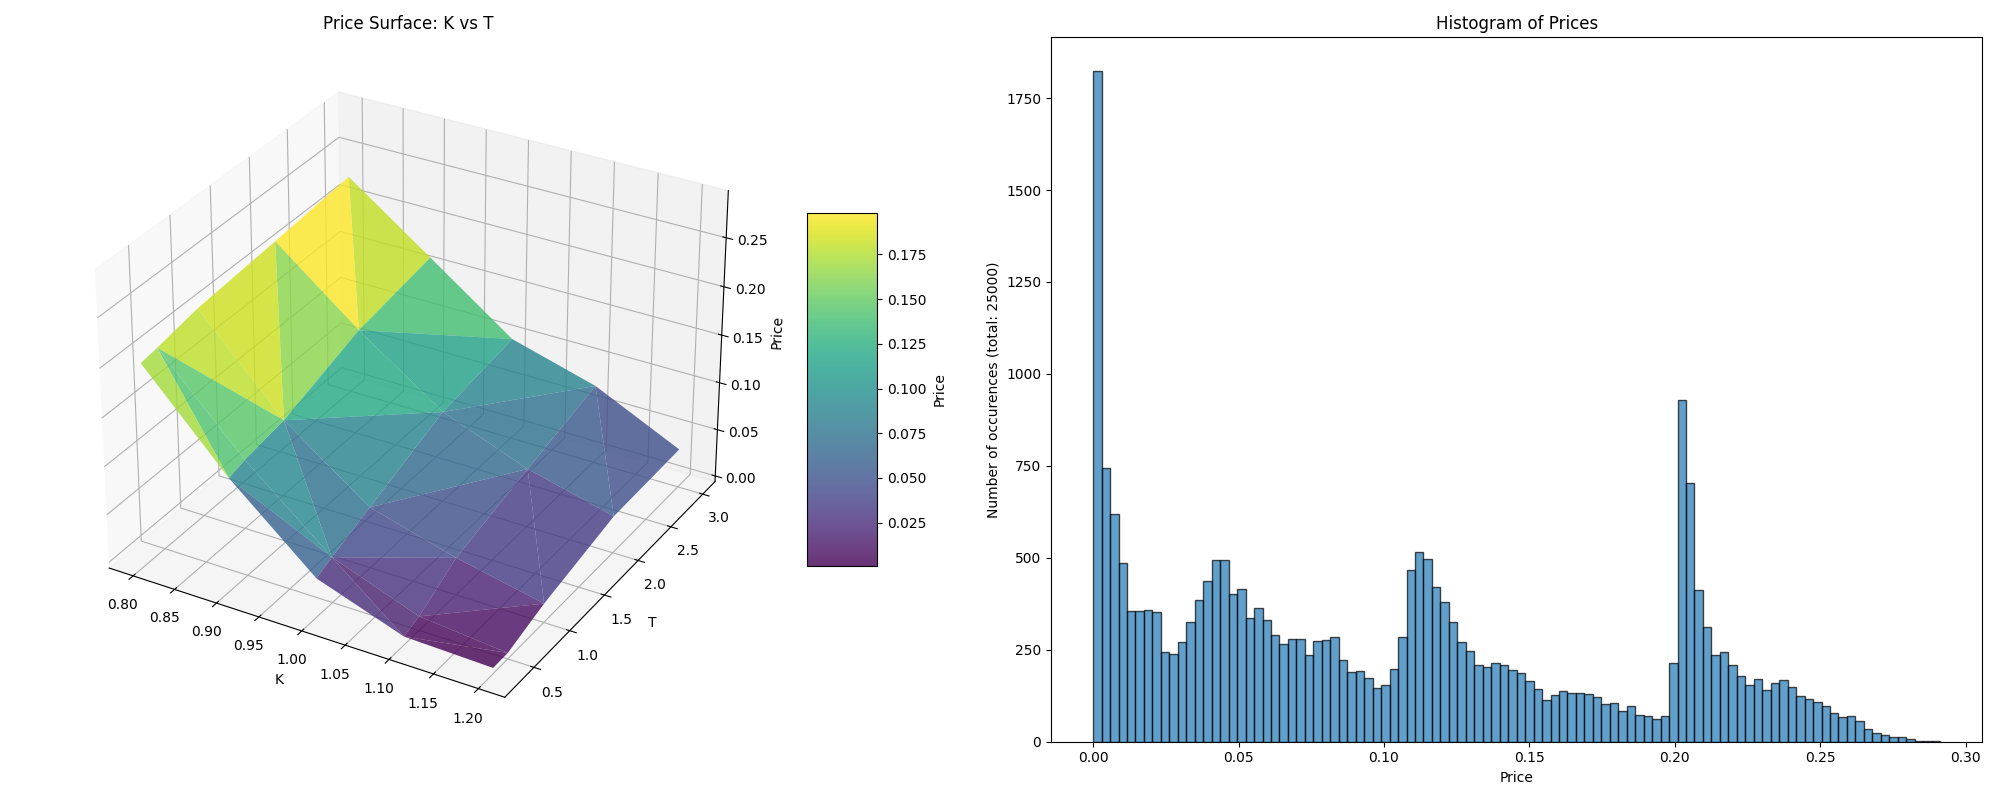
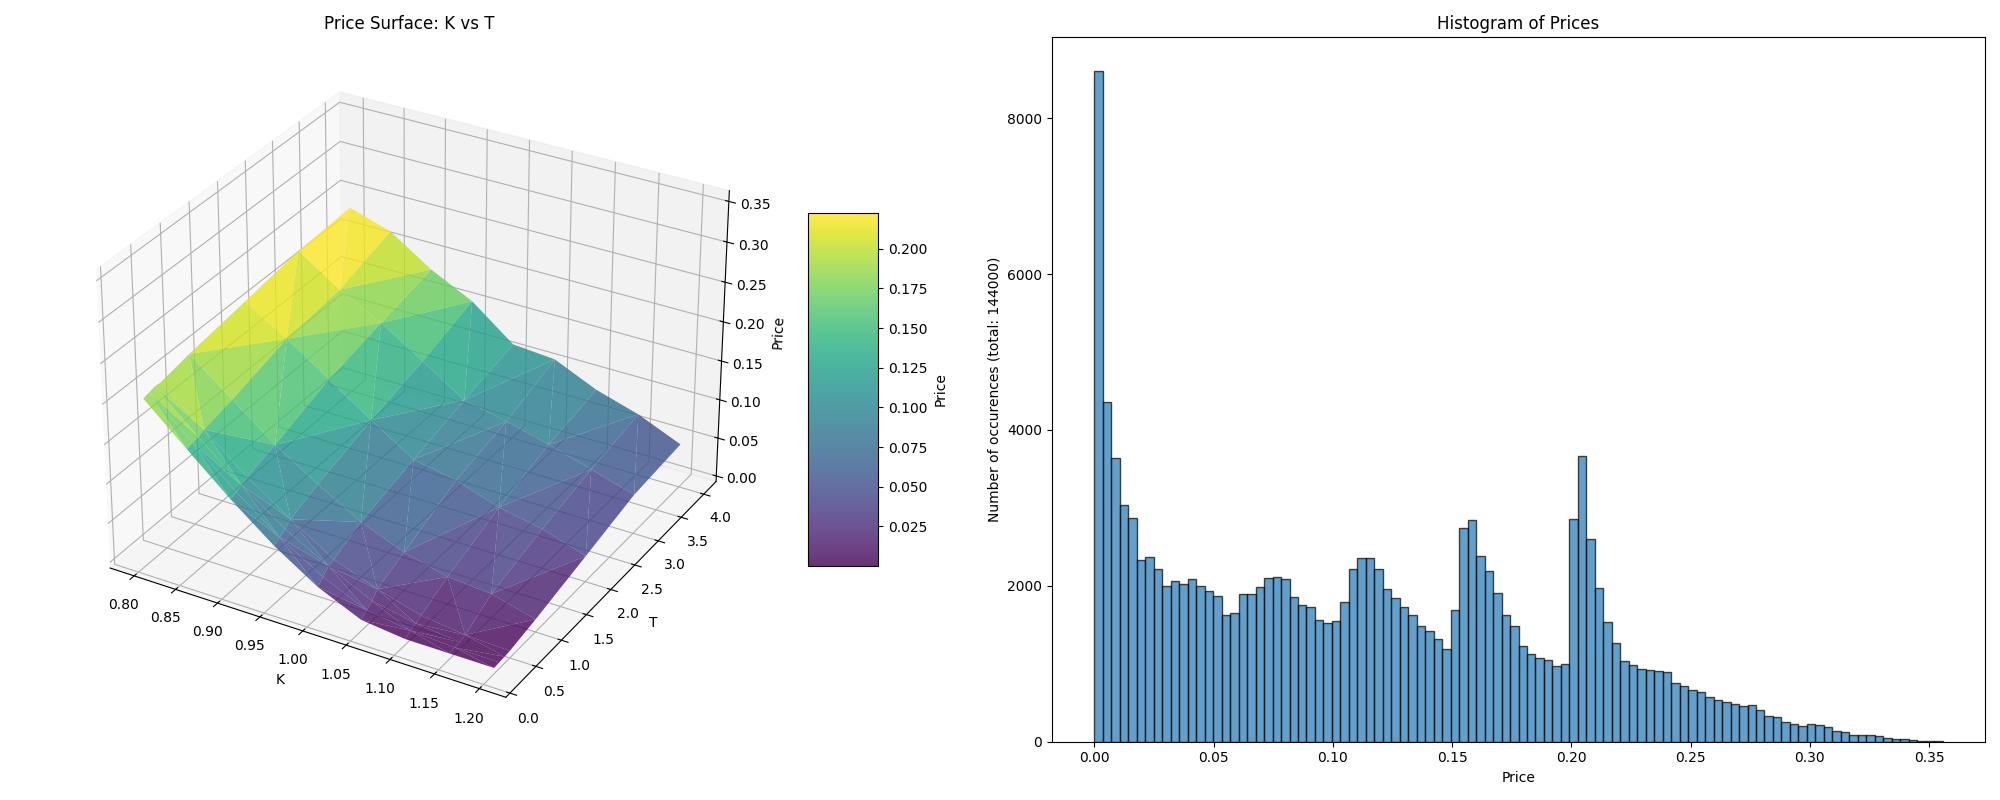
Updated Visualizations

diff --git a/pytorch/visualizations.py b/pytorch/visualizations.py
@@ -2,7 +2,7 @@ import pandas as pd
 import matplotlib.pyplot as plt
 from mpl_toolkits.mplot3d import Axes3D
 
-file_path = "../monte-carlo/data/vg_prices_all.csv"
+file_path = "../monte-carlo/data/vg_prices_all_heavy.csv"
 
 df = pd.read_csv(file_path)
 

diff --git a/monte-carlo/data/execution_time.md b/monte-carlo/data/execution_time.md
@@ -1,4 +1,4 @@
-The simulation completed in 7637.67 milliseconds (7.63767 seconds).
+The simulation completed in 7102.92 milliseconds (7.10292 seconds).
 
 > Configuration
 

diff --git a/monte-carlo/data/execution_time_heavy.md b/monte-carlo/data/execution_time_heavy.md
@@ -1,4 +1,4 @@
-The simulation completed in 124330 milliseconds (124.33 seconds).
+The simulation completed in 394603 milliseconds (394.603 seconds).
 
 > Configuration
 
